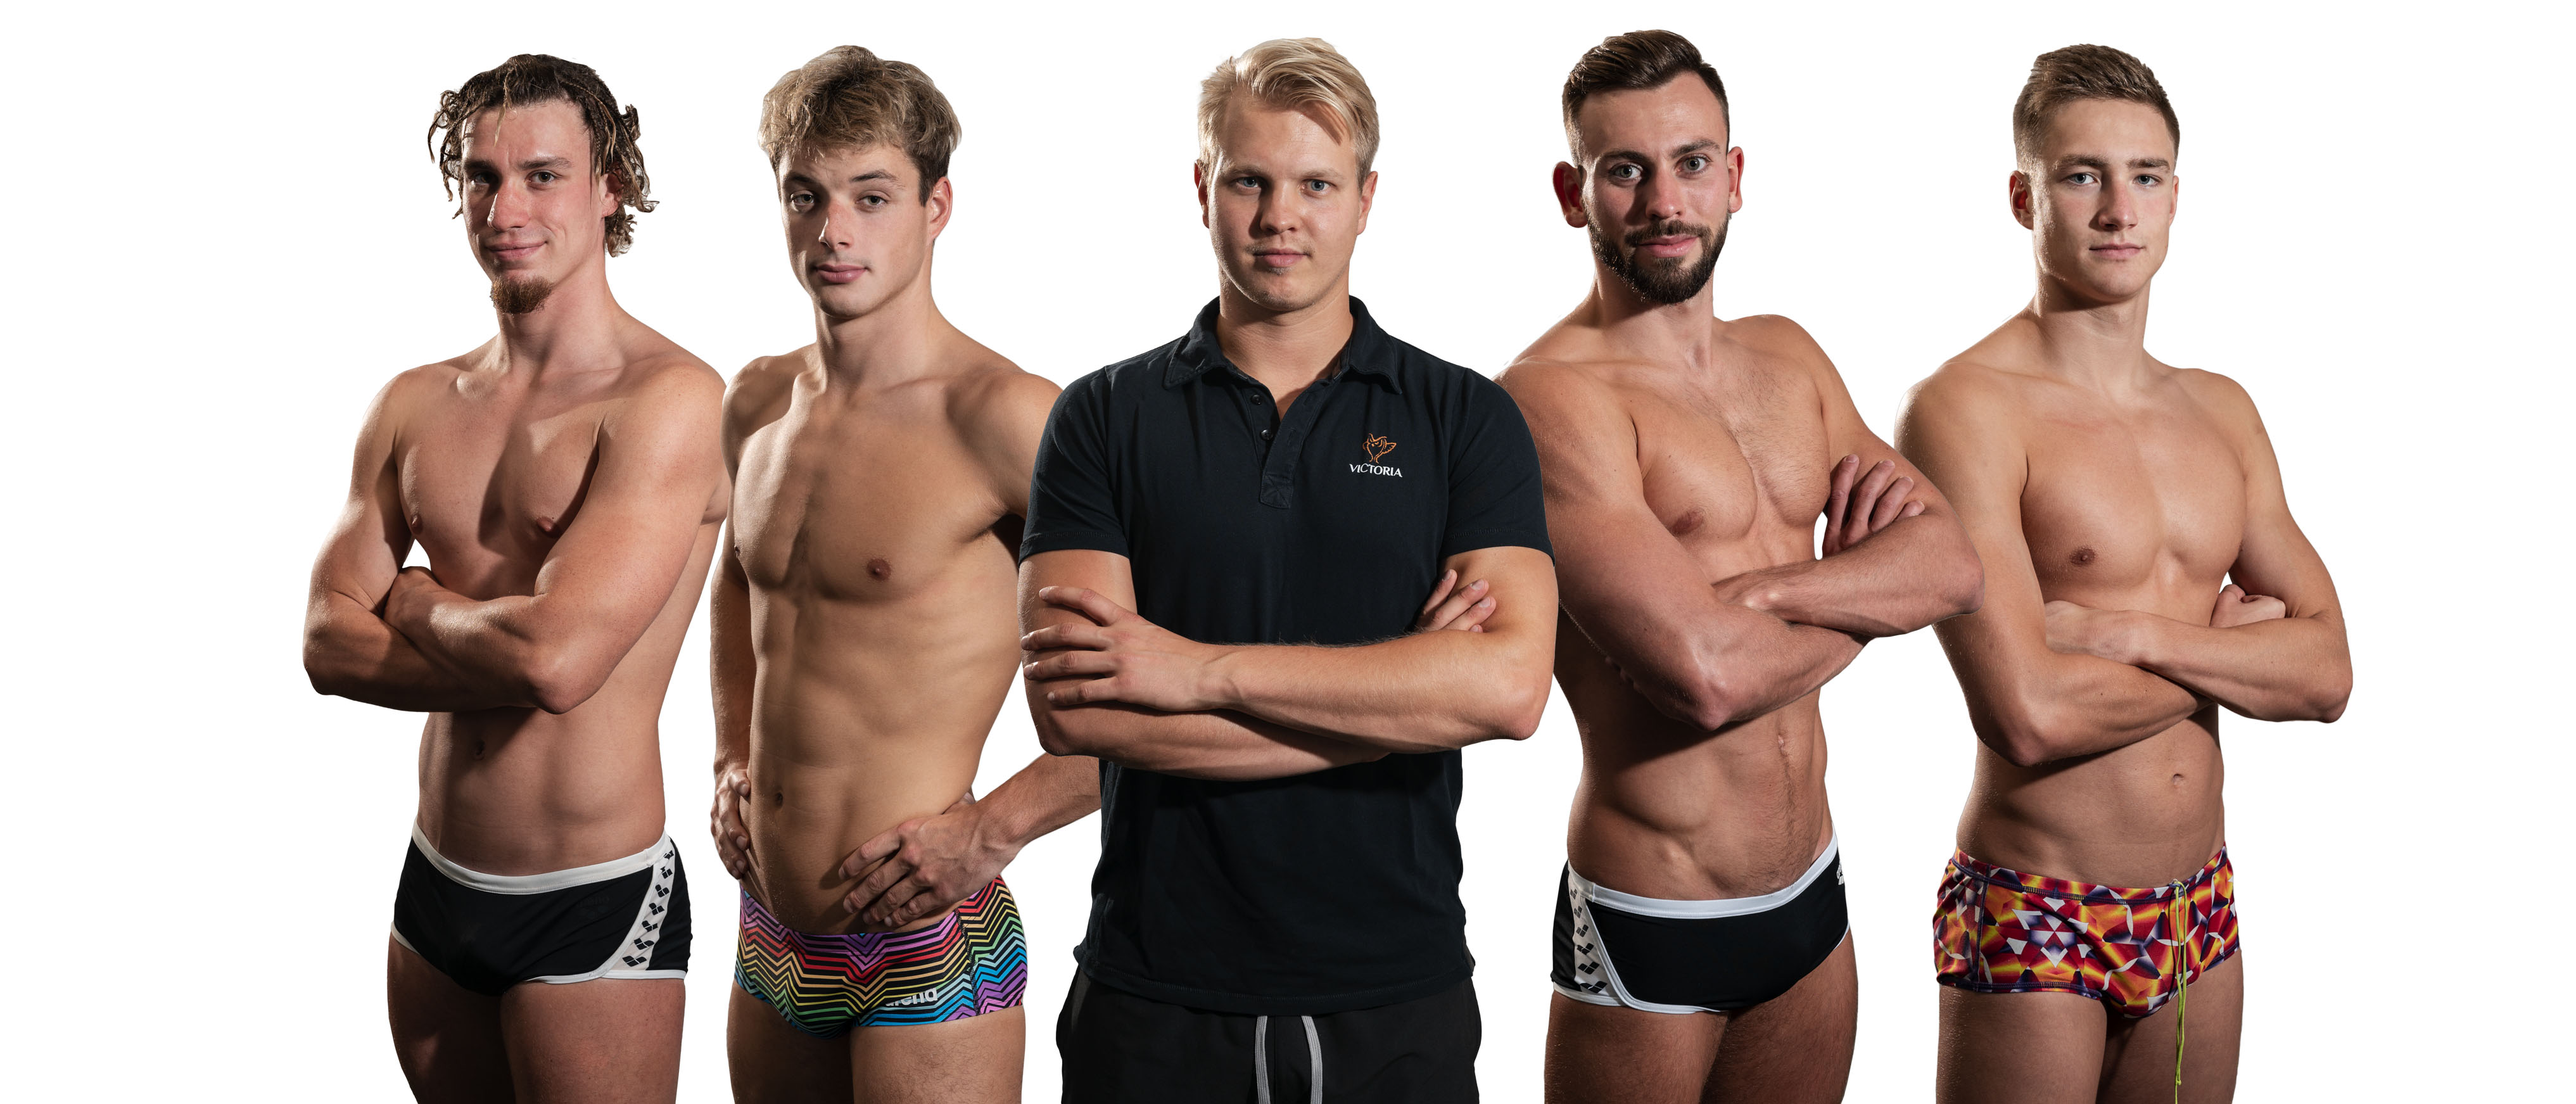
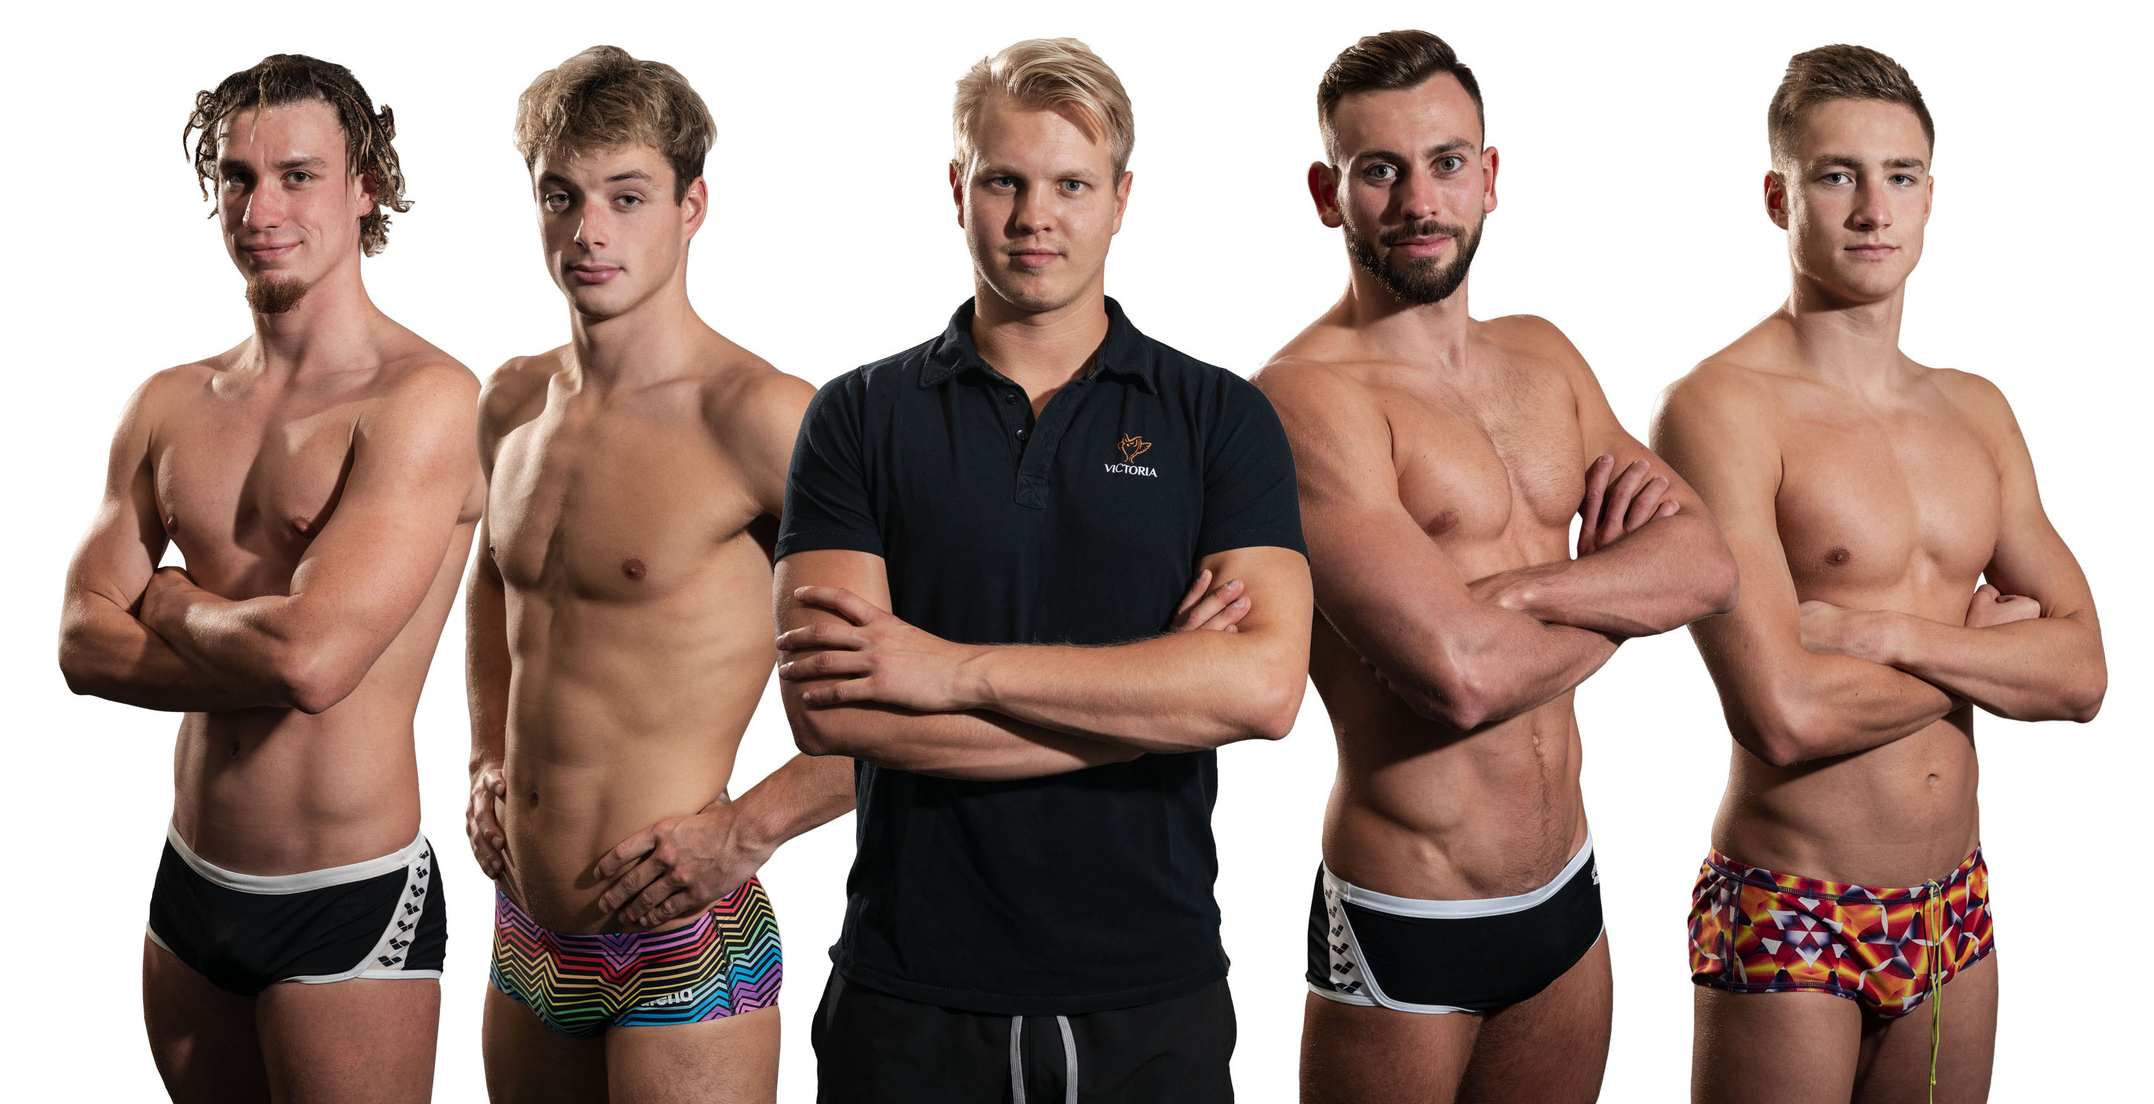
Main page - Left text X Right picture || Services

diff --git a/index.html b/index.html
@@ -54,27 +54,30 @@
     </div>
     
     <!-- Home -->
-    <div id="home" class="px-5 pt-5 my-5 text-center border-bottom" style="padding-bottom: 5vh;">
-      <h3 class="fw-bold">Skoč s námi po hlavě do bazénu</h3>
-      <h1 class="display-4 fw-bold">Plavecký trénink 21. století </h1>
-      <div class="col-lg-6 mx-auto">
-        <p class="lead mb-4">
-          Moderní pojetí tréninkového procesu, podložené aktuálními trendy a pod dohledem vysokoškolsky vzdělaných profesionálu v daném oboru. 
-          </p>
-        <div class="d-grid gap-2 d-sm-flex justify-content-sm-center mb-5">
-          <a href="#contact"><button type="button" class="btn bg-color-es btn-lg px-4 me-sm-3 text-white">Rezervovat trénink</button></a>
-          <a href="#contact"><button type="button" class="btn btn-lg px-4 bg-danger text-white danger-hover">1. trénink zdarma</button></a>
+    <div id="home" class="container my-5">
+      <div class="row p-4 pb-0 pe-lg-0 pt-lg-5 align-items-center">
+        <div class="col-lg-5 p-3 p-lg-5 pt-lg-3">
+          <h3 class="fw-bold">Skoč s námi po hlavě do bazénu</h3>
+          <h1 class="display-4 fw-bold lh-1 py-3">Plavecký trénink 21. století</h1>
+          <p class="lead">Moderní pojetí tréninkového procesu, podložené aktuálními trendy a pod dohledem vysokoškolsky vzdělaných profesionálu v daném oboru</p>
+          <div class="d-grid gap-2 d-md-flex justify-content-md-start mb-4 mb-lg-3 pt-5">
+            <a href="#contact"><button type="button" class="btn bg-color-es btn-lg px-4 me-sm-3 text-white">Rezervovat trénink</button></a>
+            <a href="#contact"><button type="button" class="btn bg-green btn-lg px-4 text-white">1. trénink zdarma</button></a>
+          </div>
         </div>
-      </div>
-      <div class="overflow-hidden" style="max-height: 50vh;">
-        <div class="container px-5">
-          <img src="static/images/pexels-jim-de-ramos-1263425.jpg" class="img-fluid border rounded-3 shadow-lg mb-4" alt="Example image" width="900" height="700" loading="lazy">
+        <div class="col-lg-7 p-0">
+          <img src="static/images/Victoria plavci - tym-Dominik.jpg" class="img-fluid rounded-3 mb-4" alt="team" height="700" loading="lazy">
         </div>
       </div>
     </div>
 
+    <!-- Home footer -->
+    <div class="container d-flex col-xxl-10 px-4 py-5 border-top border-bottom justify-content-center">
+      <h3 class="col-9 display-5 fw-bold text-center text-secondary">Našim cílem je <blue>Vás naučit efektivně plavat všechny plavecké způsoby</blue> s minimálním výdejem energie</h3>
+    </div>
+
     <!-- About -->
-    <div id="about" class="container col-xxl-9 px-4 py-5 border-bottom">
+    <div id="about" class="container col-xxl-10 px-4 py-5 border-bottom">
       <div class="row flex-lg-row-reverse align-items-center g-5 py-5">
         <div class="col-10 col-sm-8 col-lg-6">
           <img src="static/images/DSC_0025.webp" class="d-block mx-lg-auto img-fluid" alt="Bootstrap Themes" width="700" height="500" loading="lazy">
@@ -91,7 +94,7 @@
     </div>
 
     <!-- Cooperation -->
-    <div class="container col-xxl-9 px-4 border-bottom" id="cooperation">
+    <div class="container col-xxl-10 px-4 border-bottom" id="cooperation">
       <div class="row row-cols-1 row-cols-sm-2 row-cols-md-3 row-cols-lg-4 py-5 align-items-center fill">
         <div class="col d-flex align-items-start cooperation-logo">
           <img src="static/images/logo-klub-plaveckych-sportu-ostrava-small.jpg" class="bi me-2" width="200"/>
@@ -103,8 +106,8 @@
     </div>
 
     <!-- Services -->
-    <div id="services" class="container col-xxl-9 px-4 py-5 border-bottom">
-      <h1 class="display-4 py-3 fw-bold text-center">Služby našeho týmu</h1>
+    <div id="services" class="container col-xxl-10 px-4 py-5 border-bottom">
+      <h1 class="display-4 py-3 fw-bold text-center">Služby</h1>
       <div class="col-xxl-12 mx-auto">
         <p class="lead mb-4 text-justify">
           INDIVIDUALNÍ LEKCE
@@ -113,33 +116,40 @@
           Toto dělá z naších trenérů špičky ve svém oboru co do teorie i praxe.
           </p>
       </div>
-      <div class="overflow-hidden" style="max-height: 50vh;">
-        <div class="container px-5">
-          <img src="static/images/Victoria plavci - tym-Dominik.jpg" class="img-fluid rounded-3 mb-4" alt="team" width="900" height="700" loading="lazy">
-        </div>
-      </div>
+    </div>
 
-      <div class="row g-4 py-3 row-cols-1 row-cols-lg-3">
-        <div class="feature col">
-          <h2 class="text-muted py-3">Moderní přístup</h2>
-          <p>Sportovní trénink v oblasti plavání založený na moderních poznatcích ze světa plavání a podpořený mnohaletou praxí.</p>
+    <!-- Services footer -->
+    <div class="container col-xxl-10 px-4 py-5 border-bottom">
+    <div class="row g-4 py-3 row-cols-1 row-cols-lg-3">
+      <div class="feature col">
+        <div class="feature-icon bg-color-es bg-gradient">
+          <img src="static/images/icons/lightbulb-regular.svg" alt="bulb" width="36" height="36" fill="white">
         </div>
-        <div class="feature col">
-          <h2 class="text-muted py-3">Udržitelné výsledky</h2>
-          <p>Respektujeme Vaši individualitu na základě které, nastavíme nejvhodnější typ tréninku pro dlouhodobě udržitelné výsledky.</p>
+        <h2 class="text-muted py-3">Moderní přístup</h2>
+        <p>Sportovní trénink v oblasti plavání založený na moderních poznatcích ze světa plavání a podpořený mnohaletou praxí</p>
+      </div>
+      <div class="feature col">
+        <div class="feature-icon bg-color-es bg-gradient">
+          <img src="static/images/icons/chart-line-solid.svg" alt="chart" width="36" height="36" fill="white">
         </div>
-        <div class="feature col">
-          <h2 class="text-muted py-3">Flexibilita a nezávislost</h2>
-          <p>Působíme ve čtyřech městech v ČR a proto není takřka problém vyhovět vaším individuálním požadavkům </p>
+        <h2 class="text-muted py-3">Udržitelné výsledky</h2>
+        <p>Respektujeme Vaši individualitu na základě které, nastavíme nejvhodnější typ tréninku pro dlouhodobě udržitelné výsledky</p>
+      </div>
+      <div class="feature col">
+        <div class="feature-icon bg-color-es bg-gradient">
+          <img src="static/images/icons/handshake-regular.svg" alt="mail" width="36" height="36" fill="white">
         </div>
-    </div>
-    </div>
+        <h2 class="text-muted py-3">Flexibilita a nezávislost</h2>
+        <p>Působíme ve čtyřech městech v ČR a proto není takřka problém vyhovět vaším individuálním požadavkům </p>
+      </div>
+  </div>
+  </div>
     
     <!-- Contact -->
-    <div id="contact" class="container col-xxl-9 px-4 py-5">
-      <div class="row flex-lg-row-reverse align-items-center g-5 py-5">
+    <div id="contact" class="container col-xxl-10 px-4 py-5">
+      <div class="row flex-lg-row align-items-center g-5 py-5">
         <div class="col-10 col-sm-8 col-lg-6">
-          <img src="static/images/logo_blue_bezpozadi.png" class="d-block mx-lg-auto img-fluid" alt="Bootstrap Themes" width="700" height="500" loading="lazy">
+          <img src="static/images/logo_blue_bezpozadi.png" class="d-block mx-lg-auto img-fluid" alt="es_logo" width="700" height="500" loading="lazy">
         </div>
         <div class="col-lg-6">
           <h1 class="display-5 fw-bold lh-1 mb-3">Kontakt</h1>
@@ -152,26 +162,19 @@
             <br>
             <div class="contact-row">
               <h4><a href="tel:+420 725 956 042" class="text-color-es">
-              <svg xmlns="http://www.w3.org/2000/svg" width="36" height="36" fill="currentColor" class="bi bi-phone" viewBox="0 0 16 16">
-                <path d="M11 1a1 1 0 0 1 1 1v12a1 1 0 0 1-1 1H5a1 1 0 0 1-1-1V2a1 1 0 0 1 1-1h6zM5 0a2 2 0 0 0-2 2v12a2 2 0 0 0 2 2h6a2 2 0 0 0 2-2V2a2 2 0 0 0-2-2H5z"/>
-                <path d="M8 14a1 1 0 1 0 0-2 1 1 0 0 0 0 2z"/>
-              </svg> 
+                <img src="static/images/icons/mobile-alt-solid.svg" alt="phone" width="36" height="36">
               <p>+420 725 956 042</p>
             </a></h4>
             </div>
             <div class="contact-row ">
               <h4><a href="https://www.instagram.com/elementswimming_cz" class="text-color-es">
-                <svg xmlns="http://www.w3.org/2000/svg" width="36" height="36" fill="currentColor" class="bi bi-instagram" viewBox="0 0 16 16">
-                  <path d="M8 0C5.829 0 5.556.01 4.703.048 3.85.088 3.269.222 2.76.42a3.917 3.917 0 0 0-1.417.923A3.927 3.927 0 0 0 .42 2.76C.222 3.268.087 3.85.048 4.7.01 5.555 0 5.827 0 8.001c0 2.172.01 2.444.048 3.297.04.852.174 1.433.372 1.942.205.526.478.972.923 1.417.444.445.89.719 1.416.923.51.198 1.09.333 1.942.372C5.555 15.99 5.827 16 8 16s2.444-.01 3.298-.048c.851-.04 1.434-.174 1.943-.372a3.916 3.916 0 0 0 1.416-.923c.445-.445.718-.891.923-1.417.197-.509.332-1.09.372-1.942C15.99 10.445 16 10.173 16 8s-.01-2.445-.048-3.299c-.04-.851-.175-1.433-.372-1.941a3.926 3.926 0 0 0-.923-1.417A3.911 3.911 0 0 0 13.24.42c-.51-.198-1.092-.333-1.943-.372C10.443.01 10.172 0 7.998 0h.003zm-.717 1.442h.718c2.136 0 2.389.007 3.232.046.78.035 1.204.166 1.486.275.373.145.64.319.92.599.28.28.453.546.598.92.11.281.24.705.275 1.485.039.843.047 1.096.047 3.231s-.008 2.389-.047 3.232c-.035.78-.166 1.203-.275 1.485a2.47 2.47 0 0 1-.599.919c-.28.28-.546.453-.92.598-.28.11-.704.24-1.485.276-.843.038-1.096.047-3.232.047s-2.39-.009-3.233-.047c-.78-.036-1.203-.166-1.485-.276a2.478 2.478 0 0 1-.92-.598 2.48 2.48 0 0 1-.6-.92c-.109-.281-.24-.705-.275-1.485-.038-.843-.046-1.096-.046-3.233 0-2.136.008-2.388.046-3.231.036-.78.166-1.204.276-1.486.145-.373.319-.64.599-.92.28-.28.546-.453.92-.598.282-.11.705-.24 1.485-.276.738-.034 1.024-.044 2.515-.045v.002zm4.988 1.328a.96.96 0 1 0 0 1.92.96.96 0 0 0 0-1.92zm-4.27 1.122a4.109 4.109 0 1 0 0 8.217 4.109 4.109 0 0 0 0-8.217zm0 1.441a2.667 2.667 0 1 1 0 5.334 2.667 2.667 0 0 1 0-5.334z"/>
-                </svg>
+                <img src="static/images/icons/instagram-brands.svg" alt="instagram" width="36" height="36">
                 <p>elementswimming_cz</p>
               </a></h4>
               </div>
               <div class="contact-row">
                 <h4><a href="mailto:elementswimming@gmail.com" class="text-color-es">
-                  <svg xmlns="http://www.w3.org/2000/svg" width="36" height="36" fill="currentColor" class="bi bi-envelope" viewBox="0 0 16 16">
-                    <path d="M0 4a2 2 0 0 1 2-2h12a2 2 0 0 1 2 2v8a2 2 0 0 1-2 2H2a2 2 0 0 1-2-2V4Zm2-1a1 1 0 0 0-1 1v.217l7 4.2 7-4.2V4a1 1 0 0 0-1-1H2Zm13 2.383-4.708 2.825L15 11.105V5.383Zm-.034 6.876-5.64-3.471L8 9.583l-1.326-.795-5.64 3.47A1 1 0 0 0 2 13h12a1 1 0 0 0 .966-.741ZM1 11.105l4.708-2.897L1 5.383v5.722Z"/>
-                  </svg>
+                  <img src="static/images/icons/envelope-regular.svg" alt="mail" width="36" height="36">
                   <p>elementswimming@gmail.com</p>
                 </a></h4>
                 </div>
@@ -205,7 +208,7 @@
 
 <!-- Credits 
   https://getbootstrap.com/
-  https://www.pexels.com/cs-cz/foto/osoba-voda-sport-mokry-1263425/
-  https://codepen.io/martinwolf/pen/eNNdme
+  Icons: https://fontawesome.com/
+  Navbar hover effect: https://codepen.io/martinwolf/pen/eNNdme
   -->
 </html>

diff --git a/static/general.css b/static/general.css
@@ -17,7 +17,6 @@
 .contact-row>h4>a>p{
     display: inline-block;
     padding-left:8px;
-    vertical-align: middle;
 }
 
 
@@ -42,9 +41,14 @@
     background-color: #59cbfd!important;
 }
 
-.danger-hover:hover{
-    background-color: #e15361!important;
+.bg-green{
+    background-color:#52cc52!important;
 }
+
+.bg-green:hover{
+    background-color: #57d957!important;
+}
+
 
 .link-hover::after {
     content: '';
@@ -62,4 +66,21 @@
 .fill { 
     min-height: 100%;
     height: 100%;
+}
+
+blue{
+    color:#50B6E3;
+}
+
+.feature-icon{
+    height:64px;
+    width: 64px;
+    display: flex;
+    justify-content: center;
+    align-items: center;
+    border-radius: 12px;
+}
+
+.feature-icon:hover{
+    background-color: #50B6E3 !important;
 }
